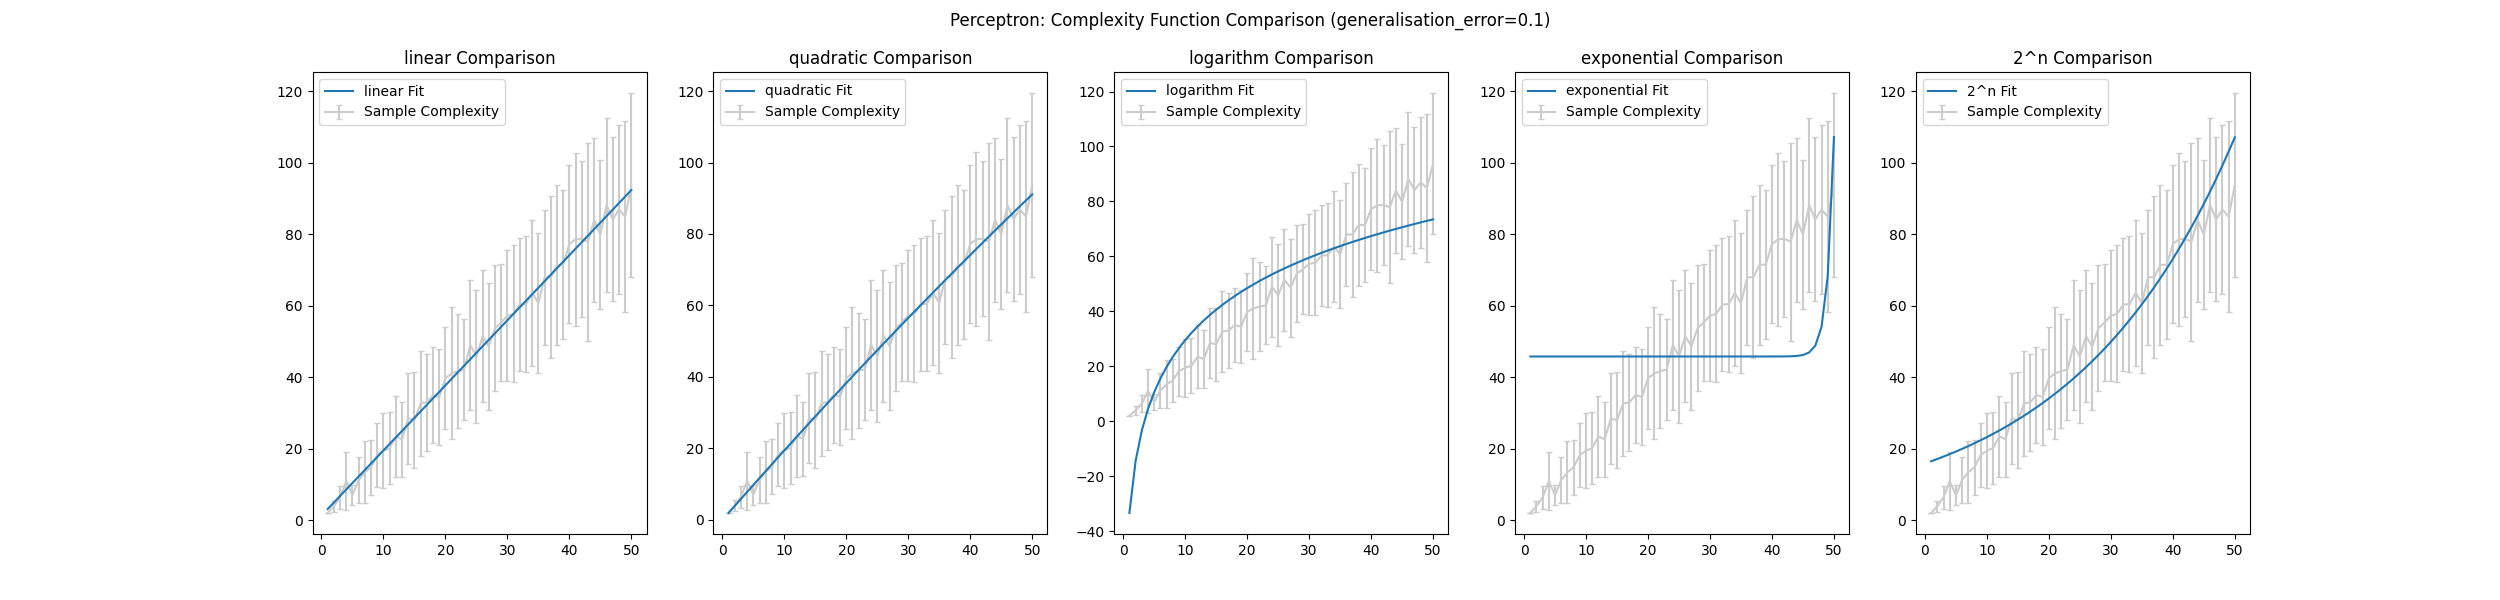
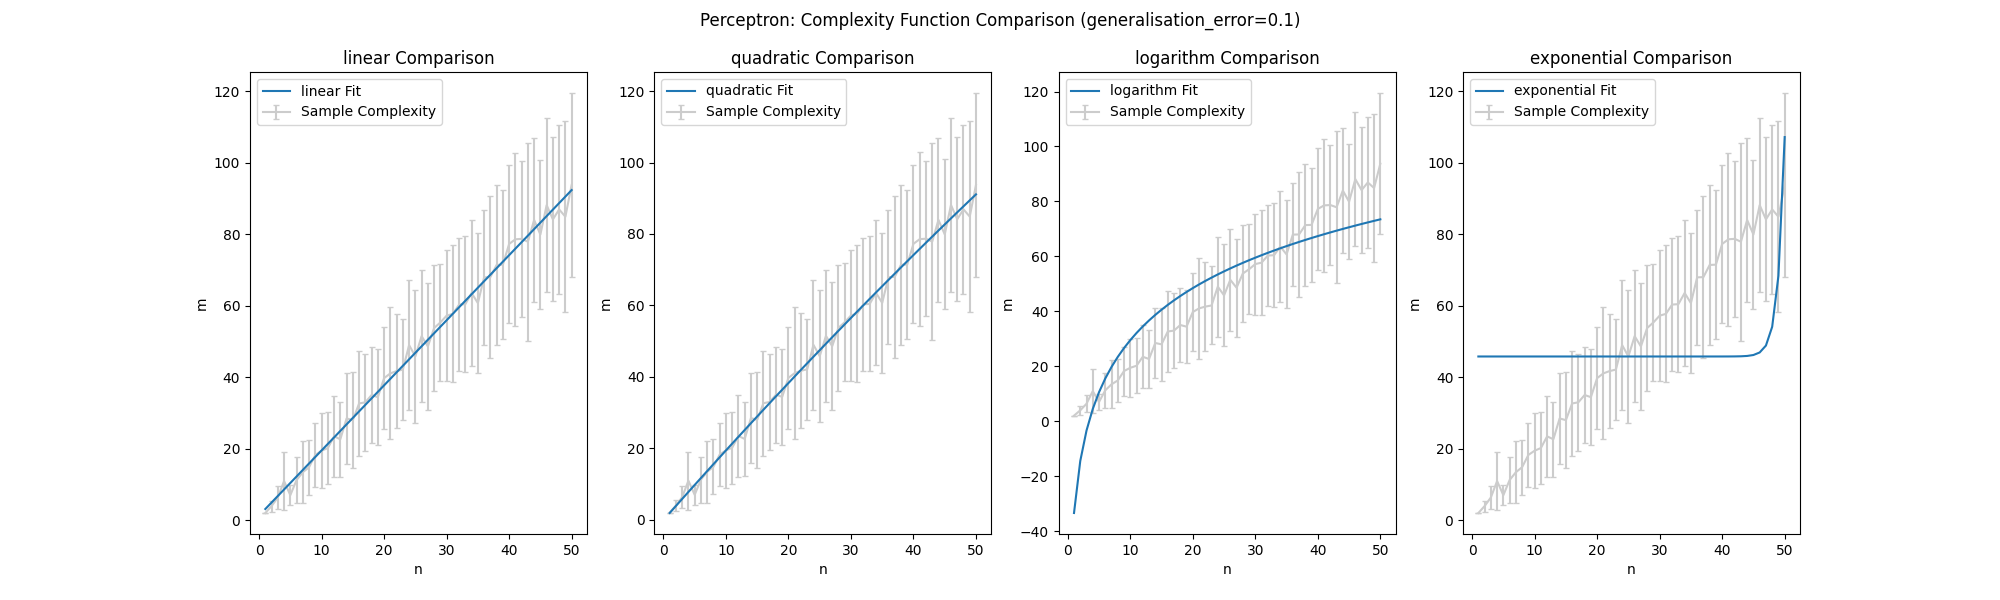
force exponential to be an increasing curve

diff --git a/main.py b/main.py
@@ -207,33 +207,24 @@ if __name__ == "__main__":
             "fit": lambda x, y: np.polyfit(x, y, 2),
             "f": lambda x, coeff: np.poly1d(coeff)(x),
         },
-        # "logarithm": {
-        #     "fit": lambda x, y: np.polyfit(np.log(x), y, 1),
-        #     "f": lambda x, coeff: np.poly1d(coeff)(np.log(x)),
-        # },
         "logarithm": {
             "fit": lambda x, y: curve_fit(
-                lambda t, a, b, c: a * np.log(b * t) + c, x, y
+                lambda t, a, b, c: np.abs(a) * np.log(b * t) + c, x, y
             )[0],
-            "f": lambda x, coeff: coeff[0] * np.log(coeff[1] * x) + coeff[2],
+            "f": lambda x, coeff: np.abs(coeff[0]) * np.log(coeff[1] * x) + coeff[2],
         },
         "exponential": {
             "fit": lambda x, y: curve_fit(
-                lambda t, a, b, c: a * np.exp(b * t) + c, x, y
+                lambda t, a, b, c: np.abs(a) * np.exp(b * t) + c, x, y
             )[0],
-            "f": lambda x, coeff: coeff[0] * np.exp(coeff[1] * x) + coeff[2],
+            "f": lambda x, coeff: np.abs(coeff[0]) * np.exp(coeff[1] * x) + coeff[2],
         },
-        "2^n": {
-            "fit": lambda x, y: curve_fit(
-                lambda t, a, b, c: a * (2 ** (b * t)) + c, x, y
-            )[0],
-            "f": lambda x, coeff: coeff[0] * (2 ** (coeff[1] * x)) + coeff[2],
-        },
-        # "linear": lambda x: x,
-        # "quadratic": lambda x: x**2,
-        # "cubic": lambda x: x**3,
-        # "exponential": lambda x: x**5,
-        # "logarithm": lambda x: np.log(x),
+        # "2^n": {
+        #     "fit": lambda x, y: curve_fit(
+        #         lambda t, a, b, c: a * (2 ** (b * t)) + c, x, y
+        #     )[0],
+        #     "f": lambda x, coeff: coeff[0] * (2 ** (coeff[1] * x)) + coeff[2],
+        # },
     }
     part_3.a(
         model=OneNN(),
